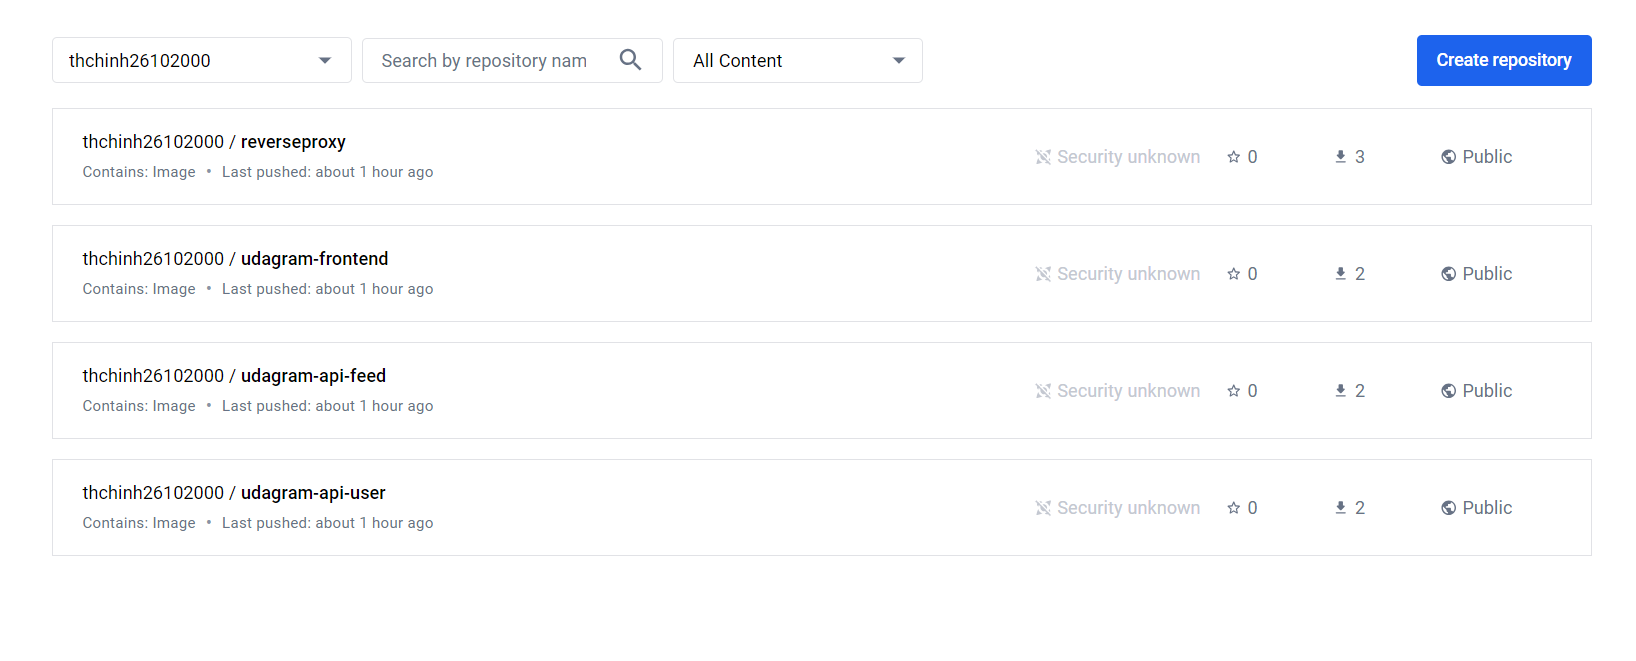
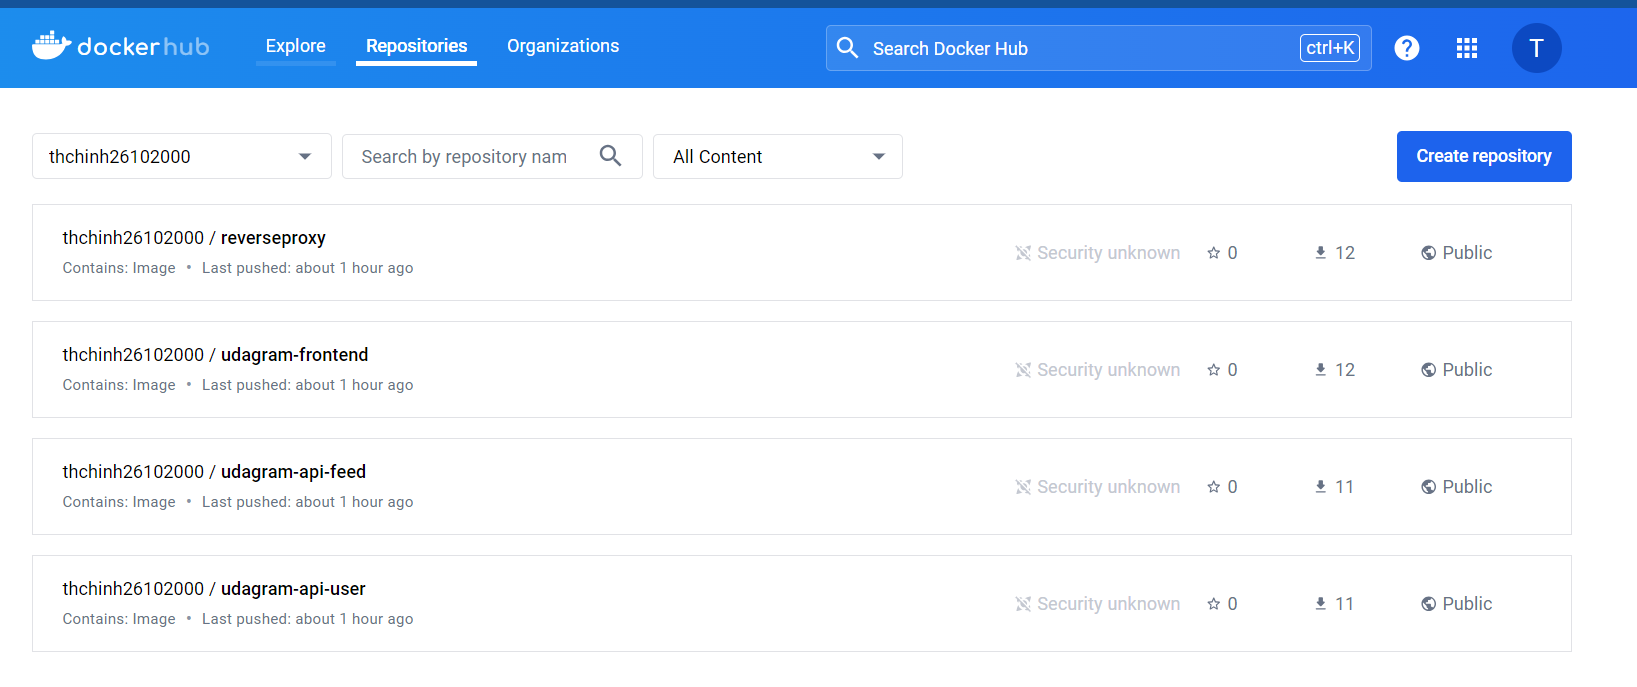
Complete project

diff --git a/README.md b/README.md
@@ -1,2 +1,11 @@
-## Hi reviewer I put evidence screenshot in folder: image-screenshot.
-## Another thing, Instead of using travis, I'm using circleci to continue deploying my code
+# Hi reviewer I put evidence screenshot in folder: image-screenshot.
+
+# Another thing, Instead of using travis, I'm using circleci to continue deploying my code
+
+# The contain of folder image-screenshot including:
+## image of circle deploy CI/CD
+## Image of deployment in postman testing with BE and in browser with FE
+## Image Describe service 
+## Image of docker hub
+## Image of pod running
+## Image of log in pod 
